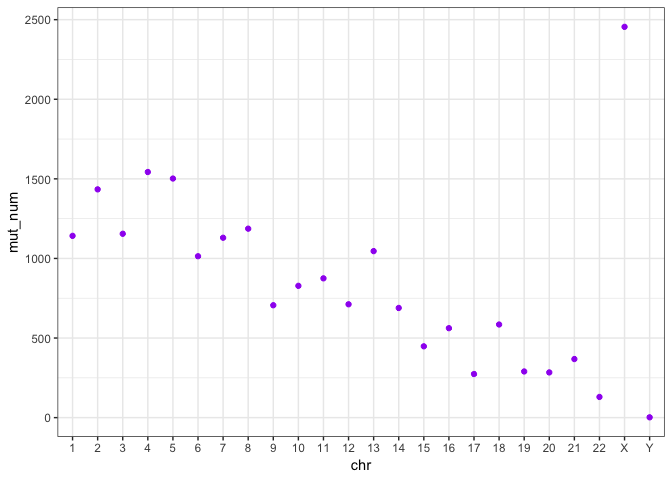
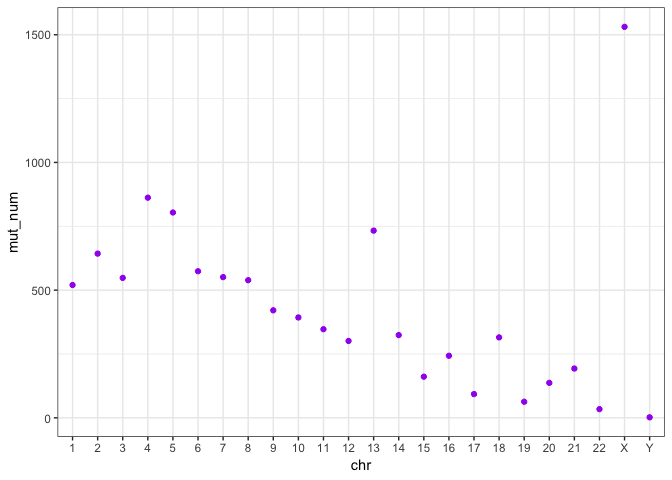
Fixing total number of variants plot for the annotation of interest

diff --git a/tmb_coding.md b/tmb_coding.md
@@ -132,28 +132,21 @@ count_mut_per_bin <- function(chr_pos_ann, bin_vec) {
      y <- strsplit(x, "\\|")[[1]][2]
      })
   region_ann <- unname(region_ann)
-  #x <- cbind(chr_pos_ann$pos, findInterval(chr_pos_ann$pos, bin_vec))
-  #x <- matrix(NA, nrow = length(region_ann), ncol = 2)
-  #j = 1
   dfs_list <- list()
   for (i in 1:length(region_ann)){
     if (region_ann[i] == "intergenic_region"){
-        #x[j,] <- cbind(chr_pos_ann[i,2], findInterval(chr_pos_ann[i,2], bin_vec))
-        #j <- j +1
         df <- data.frame(chr_pos_ann[i,2], findInterval(chr_pos_ann[i,2], bin_vec))
         dfs_list[[i]] <- df
     }
   }
-  
-  #x = x[1:(j-1),]
-  #Bind rows together
-  x <- bind_rows(dfs_list)
-  
-  tab <- table(x[, 2])
-  df <- data.frame(bin_num = names(tab),
+
+#Bind rows together
+combined <- bind_rows(dfs_list)
+tab <- table(combined[, 2])
+df <- data.frame(bin_num = names(tab),
                    num_mut_in_bin = c(unname(tab)),
                    stringsAsFactors = FALSE)
-  df
+#df
 }
 ```
 
@@ -162,14 +155,19 @@ Apply same function to all chromosomes. This gives a numerical vector containing
 
 ```r
 results <- vector("numeric", length = length(chr_names))
+results3 <- vector("numeric", length = length(chr_names))
 for (i in 1:length(chr_names)) {
   results[i] <- mean(count_mut_per_bin(filter_chr(chr_names[i], vcf), bin_chr(chr_lengths, chr_names[i], bin_size))[, 2])
+  results3[i] <- sum(count_mut_per_bin(filter_chr(chr_names[i], vcf), bin_chr(chr_lengths, chr_names[i], bin_size))[, 2])
 }
 print(results)
 ##  [1]  74.28571  91.85714 109.60000 172.40000 160.80000 114.80000 137.75000
 ##  [8] 134.75000 105.25000  98.25000  86.75000  75.25000 244.33333 108.00000
 ## [15]  53.66667  81.00000  46.50000 157.50000  31.50000  68.50000  96.50000
 ## [22]  17.00000 382.75000   2.00000
+print(results3)
+##  [1]  520  643  548  862  804  574  551  539  421  393  347  301  733  324
+## [15]  161  243   93  315   63  137  193   34 1531    2
 ```
 
 
@@ -262,7 +260,7 @@ str(results2)
 ##  $ chrY :'data.frame':	1 obs. of  2 variables:
 ##   ..$ bin_num       : chr "1"
 ##   ..$ num_mut_in_bin: int 2
-binding1 <- do.call("rbind", results2) # this sucks
+#binding1 <- do.call("rbind", results2) # this sucks
 binding2 <- dplyr::bind_rows(results2, .id = "chromosome")
 ```
 
@@ -270,32 +268,32 @@ Plotting the total number of variants (filtered using specific annotations) acro
 
 
 ```r
-df <- data.frame(chr = chr_fac, mut_num = c(unname(x)))
+df <- data.frame(chr = chr_fac, mut_num = results3)
 df
 ##    chr mut_num
-## 1    1    1142
-## 2    2    1434
-## 3    3    1155
-## 4    4    1543
-## 5    5    1502
-## 6    6    1014
-## 7    7    1130
-## 8    8    1187
-## 9    9     706
-## 10  10     828
-## 11  11     875
-## 12  12     712
-## 13  13    1046
-## 14  14     689
-## 15  15     448
-## 16  16     562
-## 17  17     274
-## 18  18     585
-## 19  19     290
-## 20  20     284
-## 21  21     368
-## 22  22     130
-## 23   X    2455
+## 1    1     520
+## 2    2     643
+## 3    3     548
+## 4    4     862
+## 5    5     804
+## 6    6     574
+## 7    7     551
+## 8    8     539
+## 9    9     421
+## 10  10     393
+## 11  11     347
+## 12  12     301
+## 13  13     733
+## 14  14     324
+## 15  15     161
+## 16  16     243
+## 17  17      93
+## 18  18     315
+## 19  19      63
+## 20  20     137
+## 21  21     193
+## 22  22      34
+## 23   X    1531
 ## 24   Y       2
 ggplot(df, aes(x = chr, y = mut_num)) +
   geom_point(colour = "purple") +
